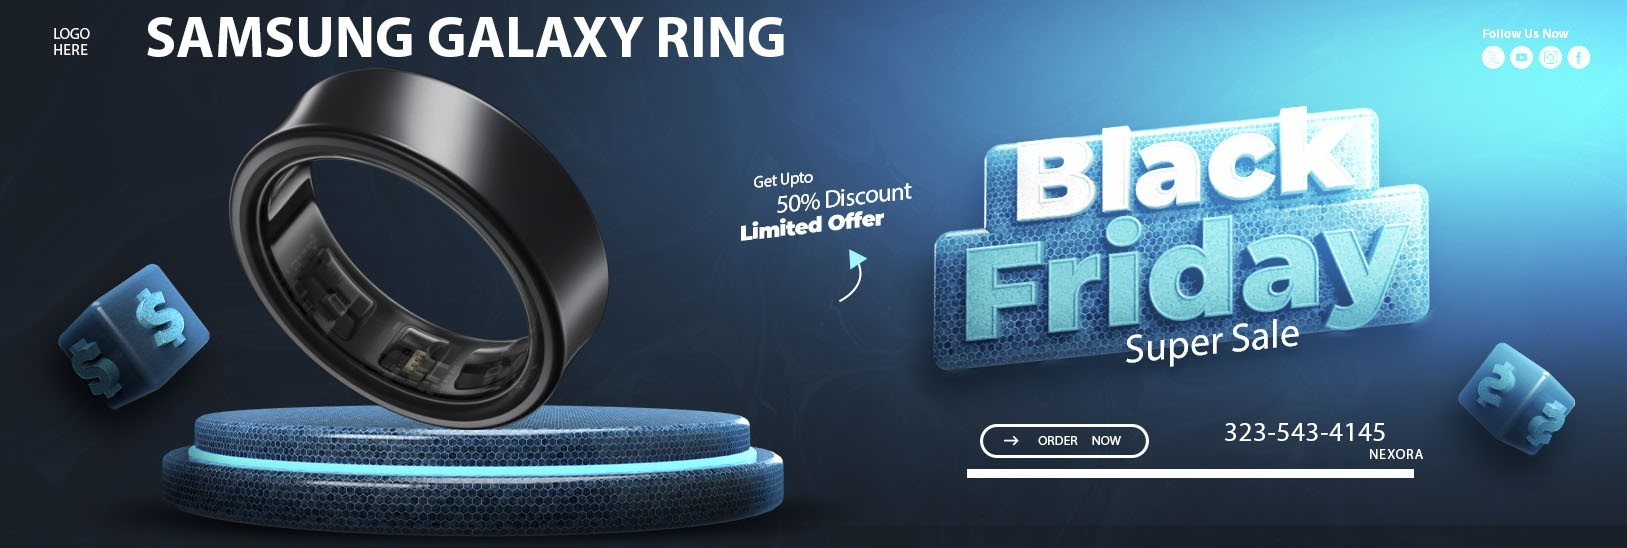
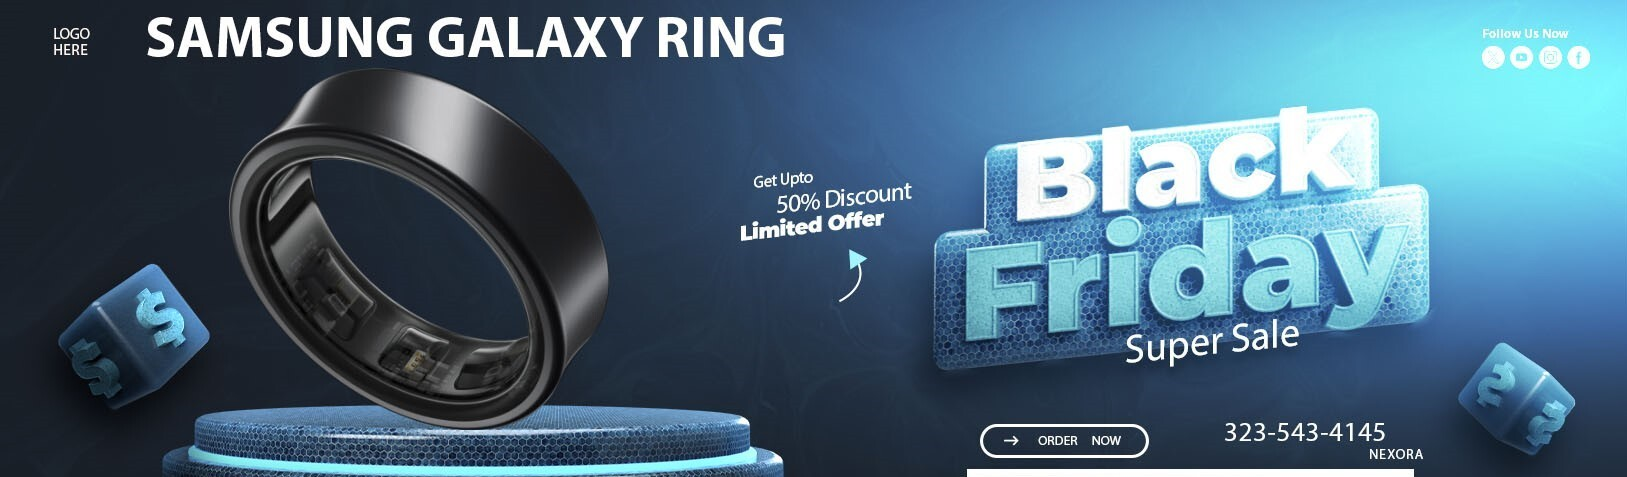
smartphone title done

diff --git a/assets/css/style.css b/assets/css/style.css
@@ -313,7 +313,7 @@
 
 .mySlides img{
     width:100%;
-    height:316px;
+    height:263px;
 
 }
 
@@ -323,4 +323,73 @@
     justify-content: center;
     width: 100%;
     padding: 1rem 0; 
+}
+
+.smartphones{
+   
+    padding:2rem;
+}
+
+.title{
+    padding:1rem 14rem;
+    display:flex;
+    align-items:center;
+    justify-content:space-between;
+    margin-bottom:1rem;
+    
+}
+
+.title h2{
+    margin:0;
+    color:var(--text);
+    /* text-decoration:var(--primary) underline;
+    text-decoration-thickness: 4px;
+    text-underline-offset:1em; */
+    position:relative;
+    text-decoration: none;
+   
+}
+
+.title h2::after{
+    content: '';
+    position:absolute;
+    left:0;
+    bottom:-0.65em;
+    width:100%;
+    height:4px;
+    background-color:var(--primary);
+    border-radius:2px;
+}
+.title hr {
+    position: absolute;
+    left: 0;
+    bottom: -1em;
+    width: 100%;
+    height: 1px;
+    background-color: #E0E0E0; /* Light gray color */
+    border: none;
+    margin: 0;
+    z-index: 1; /* Behind the blue line */
+    
+}
+.title h2 span{
+    color:var(--primary);
+}
+
+.title a{
+    display:flex;
+    align-items: center;
+    gap:0.5rem;
+    text-decoration:none;
+    color:var(--heading);
+    font-weight: 600;
+    font-size:1rem;
+    transition:color 0.3s;
+
+}
+
+.title a span{
+    font-size:0.85rem;
+    color:var(--primary);
+
 }

diff --git a/index.html b/index.html
@@ -123,6 +123,16 @@
     <span class="dot" onclick="currentSlide(3)"></span>
 </div>
          </section>
+
+         <section class="smartphones">
+            <div class="title">
+                <h2>Grab the best deal on <span>Smartphones</span></h2>
+                <hr>
+             <a href="">View All <span>❯</span></a>
+
+            </div>
+            
+         </section>
     </div>
     
 
